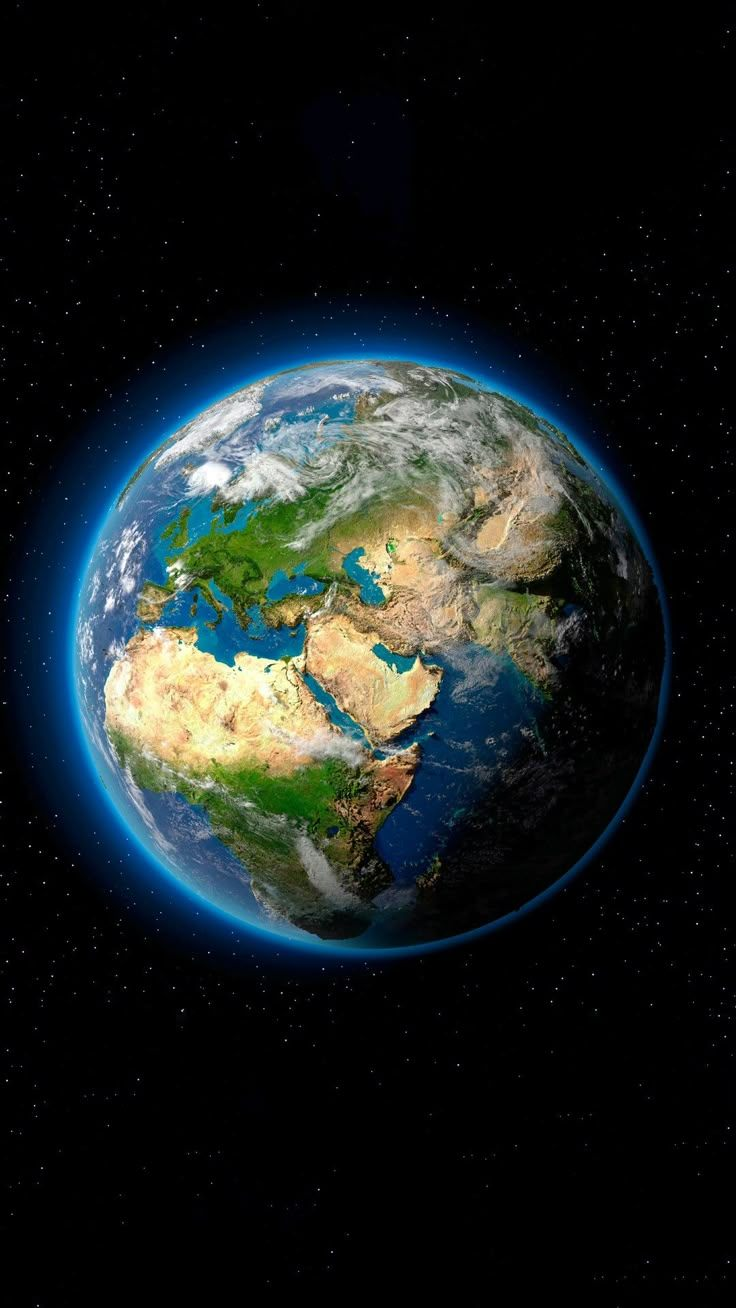
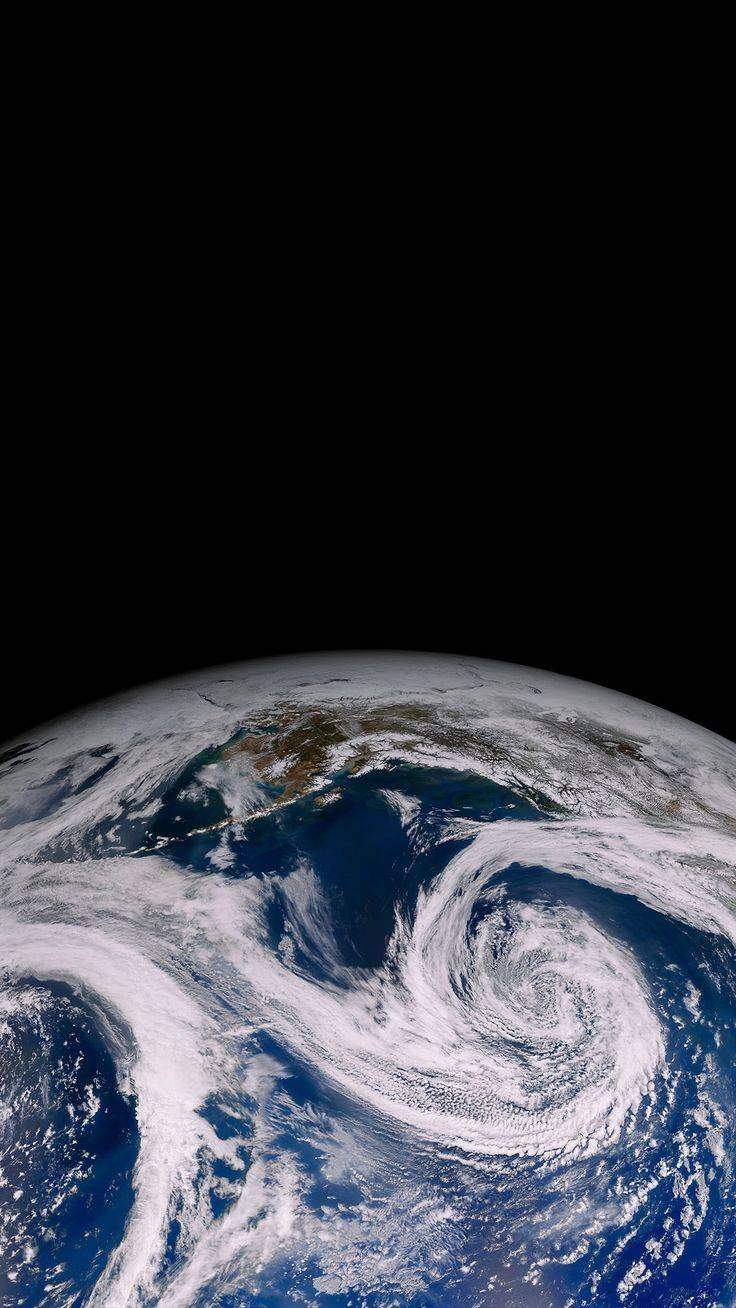
update: new earth textures

diff --git a/src/three/Globe.tsx b/src/three/Globe.tsx
@@ -8,12 +8,12 @@ interface GlobeProps {
 }
 
 function EarthSphere() {
-  const texture = useLoader(TextureLoader, '/images/earth.jpg')
+  const texture = useLoader(TextureLoader, '/images/earth2.jpg')
 
   return (
     <mesh>
       <sphereGeometry args={[1.5, 64, 64]} />
-      <meshStandardMaterial map={texture} roughness={0.6} metalness={0.05} />
+      <meshStandardMaterial map={texture} roughness={0.5} metalness={0.05} />
     </mesh>
   )
 }
@@ -21,11 +21,11 @@ function EarthSphere() {
 function Atmosphere() {
   return (
     <>
-      <mesh scale={1.025}>
+      <mesh scale={1.02}>
         <sphereGeometry args={[1.5, 64, 64]} />
-        <meshBasicMaterial color="#3a8fff" transparent opacity={0.07} side={THREE.BackSide} />
+        <meshBasicMaterial color="#4a9fff" transparent opacity={0.08} side={THREE.BackSide} />
       </mesh>
-      <mesh scale={1.06}>
+      <mesh scale={1.05}>
         <sphereGeometry args={[1.5, 64, 64]} />
         <meshBasicMaterial color="#1a6aff" transparent opacity={0.04} side={THREE.BackSide} />
       </mesh>
